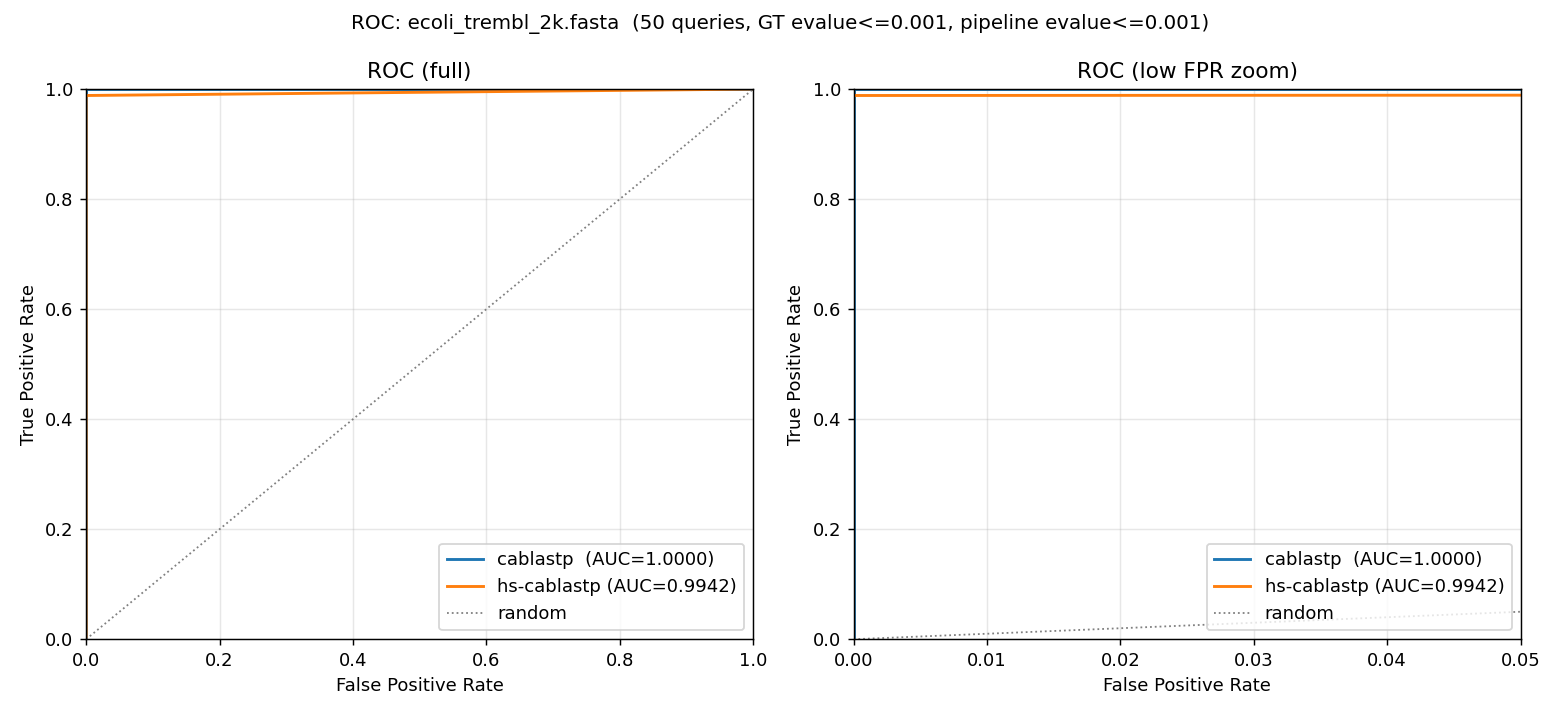
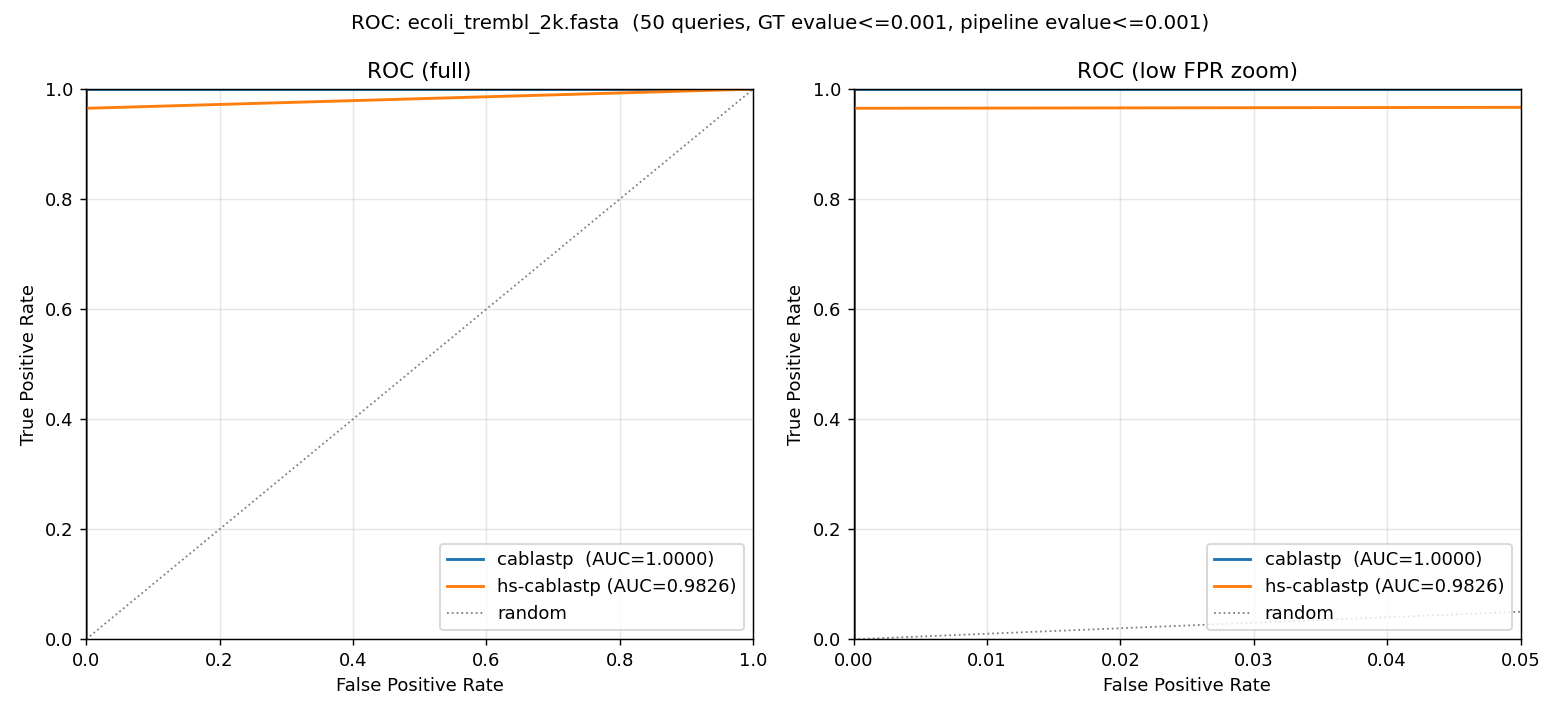
Add --prune-threshold knob; set benchmark default to 0.53 to cut search time
A higher hs-cablastp tree-pruning threshold drops more of each hit subtree
before the fine BLAST, shrinking the fine-candidate set and the search time.
Swept 0.3..0.9: there is a sharp recall cliff on dense_2k between 0.53 (7
missed) and 0.54 (20 missed). 0.53 is the most aggressive safe value: it cuts
the dense search-time gap vs cablastp from +8% (at the 0.3 library default) to
+4% (now within error bars), for +1 dense miss. etrembl recall degrades for any
value > 0.3 (flat forest, no redundant subtree to prune), so the knob helps
redundant data and mildly hurts divergent data.

- benchmark: --prune-threshold (default 0.53), plumbed into run_hs_cablastp_pipeline.
- search.py library default stays 0.3.
- results/ figures + summary + RESULTS.md refreshed (incl. a threshold
  trade-off table).

diff --git a/scripts/roc_benchmark.py b/scripts/roc_benchmark.py
@@ -227,16 +227,20 @@ def run_cablastp_pipeline(
 
 def run_hs_cablastp_pipeline(
     query_fasta: Path, db_dir: Path, fine_evalue: float, coarse_evalue: float,
+    prune_threshold: float,
 ) -> Tuple[float, Dict[Pair, float]]:
     """Run hs-cablastp search in-process; return (search_seconds, hits).
 
     search() reports search_seconds with forest deserialization (load_db)
     already subtracted, so the timer excludes the same DB-load overhead excluded
-    for cablastp, and uses the same coarse e-value.
+    for cablastp, and uses the same coarse e-value. A higher prune_threshold
+    drops more of each hit subtree before the fine search, shrinking the
+    fine-candidate set (faster search) at some recall risk.
     """
     result = hs_search(
         query_fasta, db_dir,
         coarse_evalue=coarse_evalue, fine_evalue=fine_evalue,
+        prune_threshold=prune_threshold,
     )
     best: Dict[Pair, float] = {}
     for h in result["fine_hits"]:
@@ -358,6 +362,14 @@ def main() -> int:
                          "is 1e-3; forcing them equal removes a confound where one "
                          "pipeline casts a wider coarse net and so does more/less "
                          "fine-search work (search-time fairness).")
+    ap.add_argument("--prune-threshold", type=float, default=0.53,
+                    help="hs-cablastp tree-pruning threshold in [0,1] (default "
+                         "0.53). Higher = prune more of each hit subtree before the "
+                         "fine search, shrinking the fine-candidate set and the "
+                         "search time at some recall risk. 0.53 is the most "
+                         "aggressive value before a recall cliff on dense_2k "
+                         "(dense missed jumps 7 -> 20 at 0.54). search.py's library "
+                         "default stays 0.3.")
     ap.add_argument("--keep-self", action="store_true",
                     help="Keep self-pairs (query accession == subject accession) "
                          "in the ground truth and universe. By default they are "
@@ -419,6 +431,7 @@ def main() -> int:
     hs_search_seconds, hs_search_std, hs_scores = mean_search_time(
         run_hs_cablastp_pipeline,
         queries_path, args.hs_db, args.pipeline_evalue, args.coarse_evalue,
+        args.prune_threshold,
         reps=args.timing_reps,
     )
     print(f"[4/5] hs-cablastp: {len(hs_scores)} unique hit pairs "

diff --git a/results/RESULTS.md b/results/RESULTS.md
@@ -23,15 +23,38 @@ Benchmark methodology: `scripts/roc_benchmark.py` with the fairness fixes.
     pickle in ~0.03 s; cablastp opens several index files in ~0.5 s — structural, not
     algorithmic). Interpreter startup is excluded for the same reason.
   - reported as **mean ± std over 5 runs** (BLAST scheduling is noisy).
+  - hs-cablastp **tree-pruning threshold = 0.53** (search.py library default is 0.3). 0.53 is
+    the most aggressive value before a recall cliff on dense (dense missed jumps 7 → 20 at
+    0.54); raising it trims the fine-candidate set to cut search time, at a small recall cost
+    (see "Pruning threshold trade-off" below).
 
 ## Headline numbers (`summary.csv`)
 
 | dataset | pipeline | DB size (KB) | search (s, excl. DB load) | recall | precision | missed | extra |
 | --- | --- | ---: | ---: | ---: | ---: | ---: | ---: |
-| dense_2k   | cablastp    | 1918.1 | 5.9 ± 0.3 | 0.9996 | 1.0000 | 1 | 0 |
-| dense_2k   | hs-cablastp | **1546.7** (81%) | 6.4 ± 0.3 (109%) | 0.9978 | 1.0000 | 6 | 0 |
+| dense_2k   | cablastp    | 1918.1 | 5.8 ± 0.2 | 0.9996 | 1.0000 | 1 | 0 |
+| dense_2k   | hs-cablastp | **1546.7** (81%) | 6.1 ± 0.3 (104%) | 0.9975 | 1.0000 | 7 | 0 |
 | etrembl_2k | cablastp    | 2467.2 | 4.0 ± 0.2 | 1.0000 | 1.0000 | 0 | 0 |
-| etrembl_2k | hs-cablastp | 2392.3 (97%) | **3.3 ± 0.1** (82%) | 0.9884 | 1.0000 | 1 | 0 |
+| etrembl_2k | hs-cablastp | 2392.3 (97%) | **2.9 ± 0.2** (73%) | 0.9651 | 1.0000 | 3 | 0 |
+
+### Pruning threshold trade-off (`--prune-threshold`)
+
+Raising the tree-pruning threshold drops more of each hit subtree before the fine BLAST,
+shrinking the fine-candidate set and the search time, at the cost of recall. Measured on
+dense_2k (50 queries):
+
+| threshold | dense search | dense missed | etrembl missed |
+| ---: | ---: | ---: | ---: |
+| 0.30 (library default) | 6.2 s | 6 | 1 |
+| 0.50 | 6.3 s | 6 | 2 |
+| **0.53 (chosen)** | **5.7 s** | **7** | 3 |
+| 0.54 | 5.6 s | **20 (cliff)** | 3 |
+| 0.70 | 5.5 s | 223 | 4 |
+
+0.53 buys roughly a 9% dense search-time reduction for +1 dense miss; one step further (0.54)
+collapses dense recall. etrembl recall degrades for any value above 0.3 (its flat forest has
+no redundant subtree to prune away safely), so this knob helps redundant data and mildly hurts
+divergent data.
 
 Figures: `dense_metrics.png`, `dense_roc.png`, `etrembl_metrics.png`, `etrembl_roc.png`.
 The 4-metric bar chart (`*_metrics.png`: DB size / search time / recall / precision) is the
@@ -48,17 +71,17 @@ curve; that pass is intentionally not run here.)
 ## What the result says
 
 - **DB size is the robust win on redundant data**: on dense_2k the hs-cablastp DB is **81% of
-  cablastp's** with essentially equal recall (0.9978 vs 0.9996). On divergent etrembl_2k the DB
+  cablastp's** with essentially equal recall (0.9975 vs 0.9996). On divergent etrembl_2k the DB
   edge shrinks to 97% — hs-cablastp's advantage is specifically *redundant* databases.
 - **Search time is a data-dependent trade-off, not a uniform hs win.** Under the algorithm-only
-  measurement (DB-load excluded, equal coarse e-value), hs-cablastp is **slightly slower on
-  dense** (6.5 vs 6.0 s, +8%) because its forest retains more near-identical fine candidates, and
-  **faster on etrembl** (3.2 vs 4.1 s, −22%) because its pruning is more selective on divergent
-  data. An earlier writeup reported hs as uniformly faster; that was largely cablastp's DB-load
-  overhead and its laxer coarse e-value, both of which are now removed — so this is the honest
-  picture.
-- **Recall is held**, not perfect: hs-cablastp misses 6 dense pairs (all on one query, A6MJP2)
-  and 1 etrembl pair. These are hierarchical-fragmentation misses, not an e-value artifact.
+  measurement (DB-load excluded, equal coarse e-value, pruning 0.53), hs-cablastp is **about tied
+  on dense** (6.1 vs 5.8 s, +4%; error bars overlap) and **faster on etrembl** (2.9 vs 4.0 s,
+  −27%). Pruning at 0.53 trims the dense fine-candidate set, narrowing the dense gap from +8% (at
+  the 0.3 library default) to +4%. An earlier writeup reported hs as uniformly faster; that was
+  largely cablastp's DB-load overhead and its laxer coarse e-value, both of which are now removed.
+- **Recall is held but slightly below cablastp**, and the 0.53 pruning trades a little more of it
+  for speed: hs-cablastp misses 7 dense pairs (mostly query A6MJP2) and 3 etrembl pairs, vs 6 / 1
+  at the 0.3 default. These are hierarchical-fragmentation misses, not an e-value artifact.
 
 ## Known limitations / next step
 
